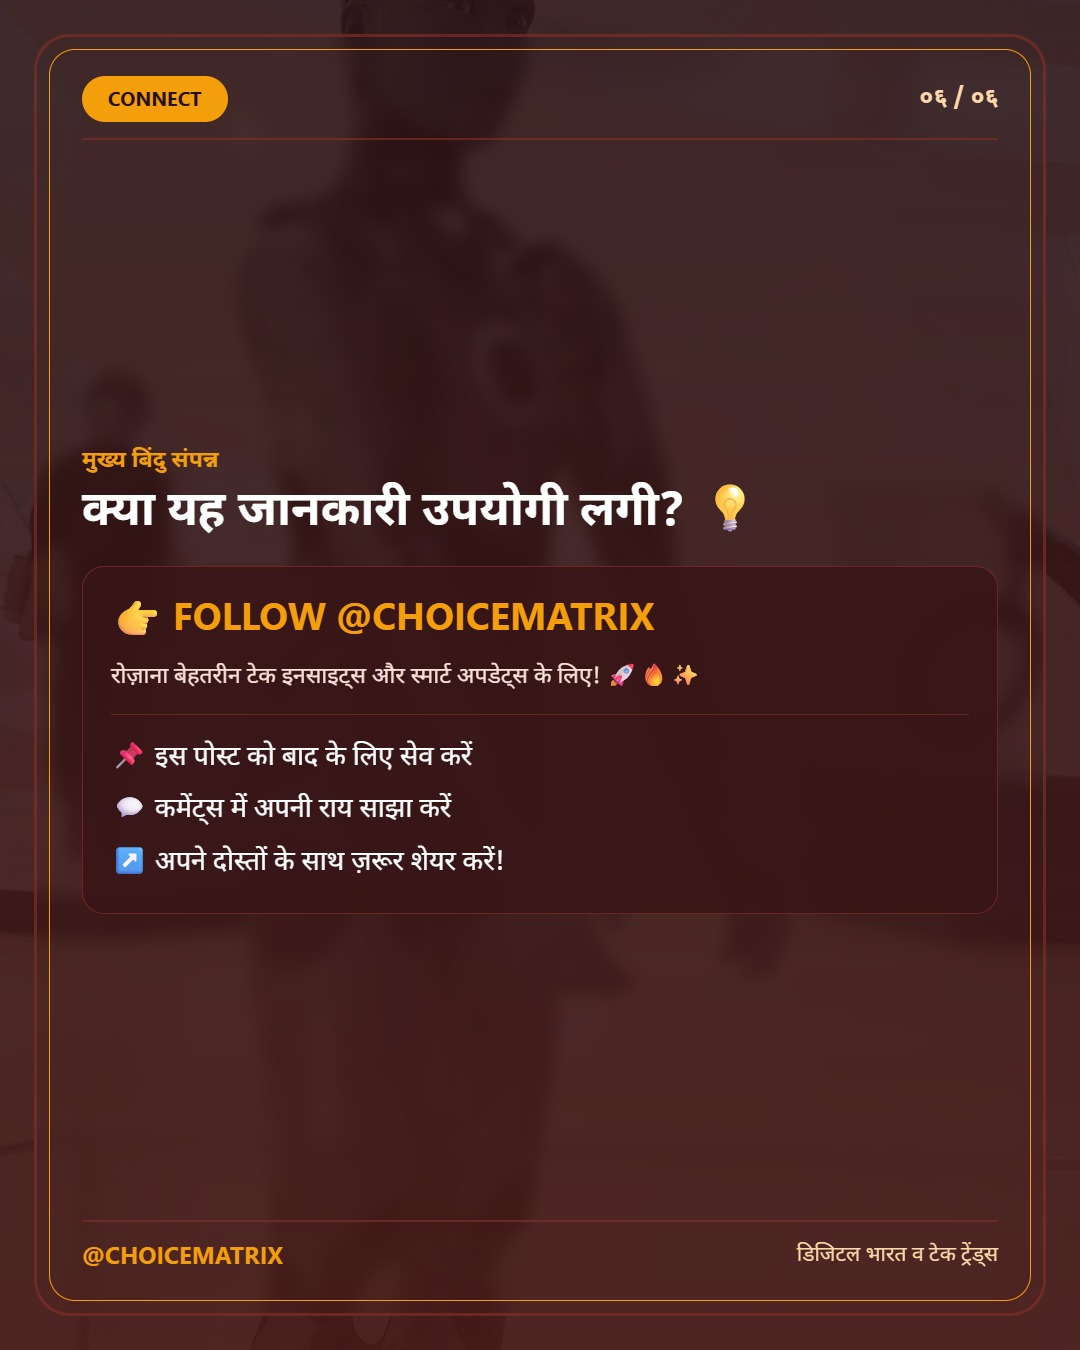
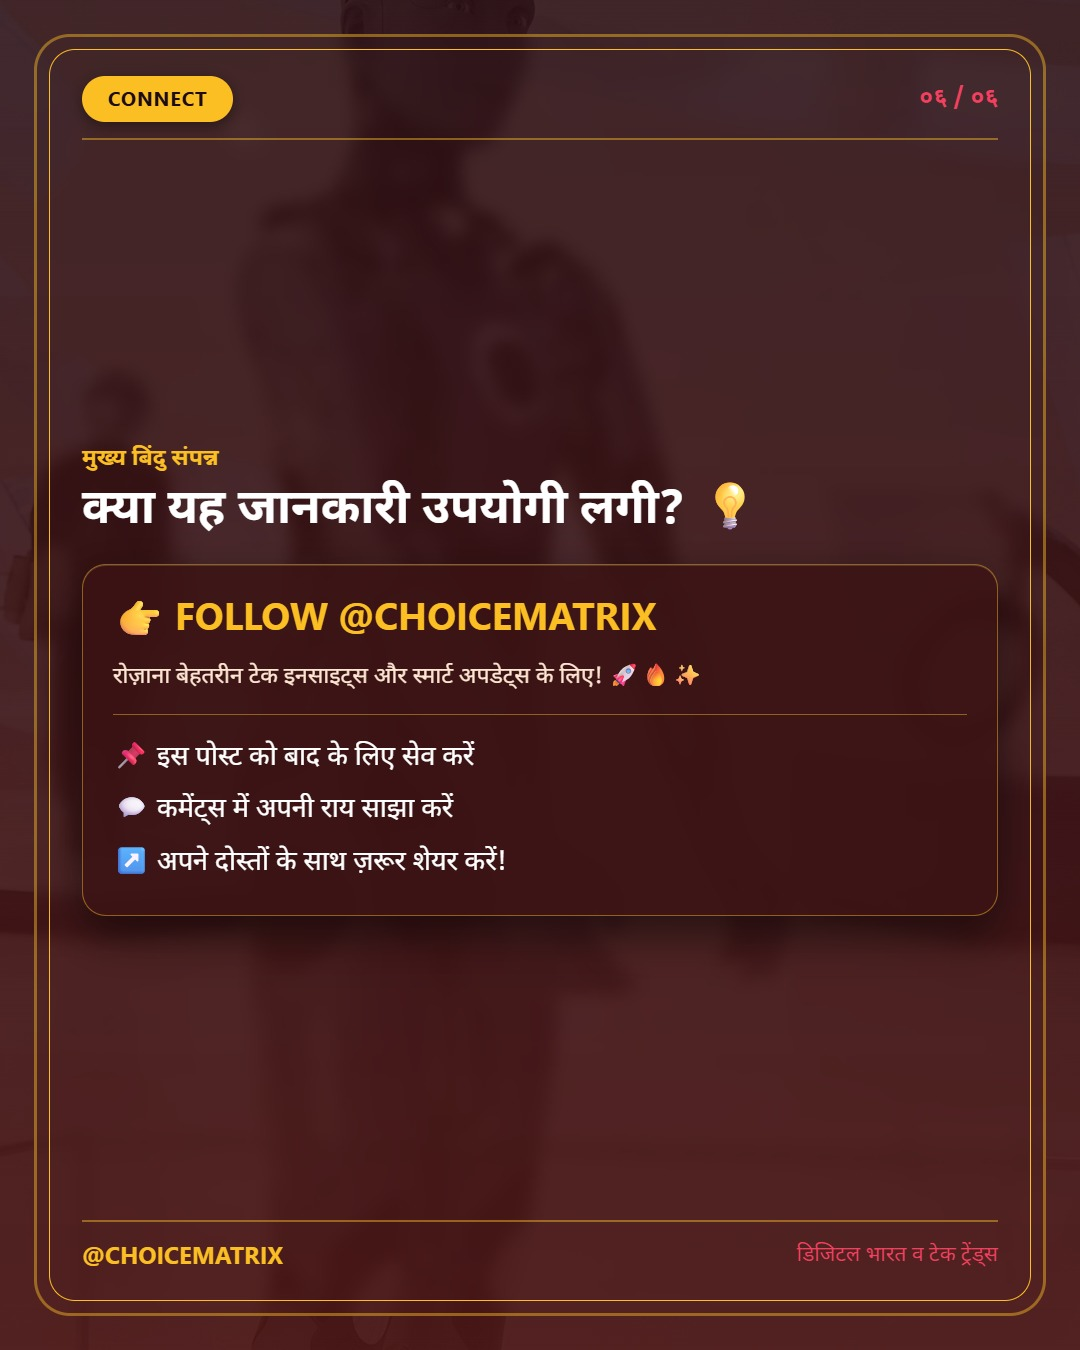
feat: expand 20 vibrant color themes and upgrade glassmorphism slide styling

diff --git a/autopilot.py b/autopilot.py
@@ -985,6 +985,36 @@ THEMES_CYBER = [
         "bg_top": (10, 22, 40), "bg_bot": (22, 48, 82), "card_bg": (28, 58, 96),
         "accent": (56, 189, 248), "accent_secondary": (0, 255, 210),
         "text_primary": (255, 255, 255), "text_secondary": (215, 230, 255), "border": (45, 85, 140)
+    },
+    {
+        "name": "Cosmic Nebula",
+        "bg_top": (8, 8, 24), "bg_bot": (18, 14, 48), "card_bg": (26, 20, 64),
+        "accent": (192, 132, 252), "accent_secondary": (250, 204, 21),
+        "text_primary": (255, 255, 255), "text_secondary": (224, 215, 250), "border": (70, 50, 120)
+    },
+    {
+        "name": "Neon Crimson",
+        "bg_top": (22, 10, 18), "bg_bot": (42, 16, 30), "card_bg": (48, 20, 36),
+        "accent": (244, 63, 94), "accent_secondary": (251, 146, 60),
+        "text_primary": (255, 255, 255), "text_secondary": (254, 205, 215), "border": (105, 35, 65)
+    },
+    {
+        "name": "Stealth Obsidian",
+        "bg_top": (12, 14, 18), "bg_bot": (20, 24, 30), "card_bg": (28, 34, 42),
+        "accent": (163, 230, 53), "accent_secondary": (226, 232, 240),
+        "text_primary": (255, 255, 255), "text_secondary": (203, 213, 225), "border": (55, 65, 80)
+    },
+    {
+        "name": "Quantum Teal",
+        "bg_top": (6, 20, 26), "bg_bot": (12, 38, 48), "card_bg": (16, 48, 62),
+        "accent": (45, 212, 191), "accent_secondary": (251, 191, 36),
+        "text_primary": (255, 255, 255), "text_secondary": (204, 251, 241), "border": (28, 75, 92)
+    },
+    {
+        "name": "Solaris Plasma",
+        "bg_top": (24, 12, 10), "bg_bot": (46, 20, 14), "card_bg": (54, 24, 18),
+        "accent": (249, 115, 22), "accent_secondary": (253, 224, 71),
+        "text_primary": (255, 255, 255), "text_secondary": (254, 215, 170), "border": (110, 48, 28)
     }
 ]
 
@@ -1018,6 +1048,36 @@ THEMES_WARM = [
         "bg_top": (35, 20, 35), "bg_bot": (65, 25, 45), "card_bg": (50, 20, 40),
         "accent": (251, 146, 60), "accent_secondary": (254, 240, 138),
         "text_primary": (255, 255, 255), "text_secondary": (254, 225, 210), "border": (110, 42, 65)
+    },
+    {
+        "name": "Marigold Festive",
+        "bg_top": (44, 14, 18), "bg_bot": (74, 22, 22), "card_bg": (58, 18, 20),
+        "accent": (251, 191, 36), "accent_secondary": (244, 63, 94),
+        "text_primary": (255, 255, 255), "text_secondary": (254, 230, 210), "border": (130, 40, 35)
+    },
+    {
+        "name": "Vedic Ochre",
+        "bg_top": (36, 20, 14), "bg_bot": (60, 32, 20), "card_bg": (48, 26, 16),
+        "accent": (249, 115, 22), "accent_secondary": (253, 224, 71),
+        "text_primary": (255, 255, 255), "text_secondary": (254, 235, 220), "border": (108, 52, 28)
+    },
+    {
+        "name": "Kashmir Blossom",
+        "bg_top": (32, 14, 28), "bg_bot": (54, 20, 44), "card_bg": (44, 18, 36),
+        "accent": (244, 114, 182), "accent_secondary": (251, 191, 36),
+        "text_primary": (255, 255, 255), "text_secondary": (251, 225, 240), "border": (92, 34, 76)
+    },
+    {
+        "name": "Sundarban Jade",
+        "bg_top": (14, 28, 22), "bg_bot": (22, 48, 36), "card_bg": (18, 40, 30),
+        "accent": (52, 211, 153), "accent_secondary": (251, 191, 36),
+        "text_primary": (255, 255, 255), "text_secondary": (209, 250, 229), "border": (38, 82, 60)
+    },
+    {
+        "name": "Murshidabad Silk",
+        "bg_top": (28, 12, 36), "bg_bot": (50, 18, 60), "card_bg": (40, 16, 48),
+        "accent": (234, 179, 8), "accent_secondary": (216, 180, 254),
+        "text_primary": (255, 255, 255), "text_secondary": (243, 225, 255), "border": (85, 30, 95)
     }
 ]
 
@@ -1117,8 +1177,8 @@ def render_carousel_slides_chrome(date_key, revision, settings, item, slot="afte
 
             accent_hex = f"#{theme['accent'][0]:02x}{theme['accent'][1]:02x}{theme['accent'][2]:02x}"
             accent_sec_hex = f"#{theme['accent_secondary'][0]:02x}{theme['accent_secondary'][1]:02x}{theme['accent_secondary'][2]:02x}"
-            card_bg_css = f"rgba({theme['card_bg'][0]}, {theme['card_bg'][1]}, {theme['card_bg'][2]}, 0.88)"
-            border_css = f"rgba({theme['border'][0]}, {theme['border'][1]}, {theme['border'][2]}, 0.70)"
+            card_bg_css = f"rgba({theme['card_bg'][0]}, {theme['card_bg'][1]}, {theme['card_bg'][2]}, 0.82)"
+            border_css = f"rgba({theme['accent'][0]}, {theme['accent'][1]}, {theme['accent'][2]}, 0.45)"
             text_sec_css = f"rgb({theme['text_secondary'][0]}, {theme['text_secondary'][1]}, {theme['text_secondary'][2]})"
 
             if slot == "afternoon":
@@ -1132,8 +1192,8 @@ def render_carousel_slides_chrome(date_key, revision, settings, item, slot="afte
                   <div style="width:100%; height:100%; display:flex; flex-direction:column; justify-content:space-between; padding:26px 32px;">
                 """
                 frame_close = "</div></div>"
-                pill_style = f"background:{accent_hex}; color:#0a0f1a; border-radius:8px; padding:8px 24px; font-size:20px; font-weight:bold;"
-                card_style = f"background:{card_bg_css}; border:1.5px solid {border_css}; border-radius:18px; padding:22px 28px;"
+                pill_style = f"background:{accent_hex}; color:#080c14; border-radius:10px; padding:8px 24px; font-size:20px; font-weight:bold; letter-spacing:1px; box-shadow:0 4px 14px rgba(0,0,0,0.4);"
+                card_style = f"background:{card_bg_css}; border:1.5px solid {border_css}; border-radius:20px; padding:24px 30px; backdrop-filter:blur(16px); -webkit-backdrop-filter:blur(16px); box-shadow:0 20px 45px rgba(0,0,0,0.5), inset 0 1px 0 rgba(255,255,255,0.12);"
             else:
                 s_ind = to_indic_digits(f"{slide_num:02d}", language)
                 t_ind = to_indic_digits(f"{total_slides:02d}", language)
@@ -1143,8 +1203,8 @@ def render_carousel_slides_chrome(date_key, revision, settings, item, slot="afte
                   <div style="width:100%; height:100%; border:1.5px solid {accent_hex}; border-radius:26px; padding:26px 32px; display:flex; flex-direction:column; justify-content:space-between;">
                 """
                 frame_close = "</div></div>"
-                pill_style = f"background:{accent_hex}; color:#241018; border-radius:24px; padding:8px 26px; font-size:20px; font-weight:bold;"
-                card_style = f"background:{card_bg_css}; border:1.5px solid {border_css}; border-radius:22px; padding:22px 28px;"
+                pill_style = f"background:{accent_hex}; color:#1e0c14; border-radius:24px; padding:8px 26px; font-size:20px; font-weight:bold; letter-spacing:0.8px; box-shadow:0 4px 14px rgba(0,0,0,0.4);"
+                card_style = f"background:{card_bg_css}; border:1.5px solid {border_css}; border-radius:24px; padding:24px 30px; backdrop-filter:blur(16px); -webkit-backdrop-filter:blur(16px); box-shadow:0 20px 45px rgba(0,0,0,0.5), inset 0 1px 0 rgba(255,255,255,0.14);"
 
             # Topic domain detection for diagrams and clear photo showcases
             is_tech_topic = (
